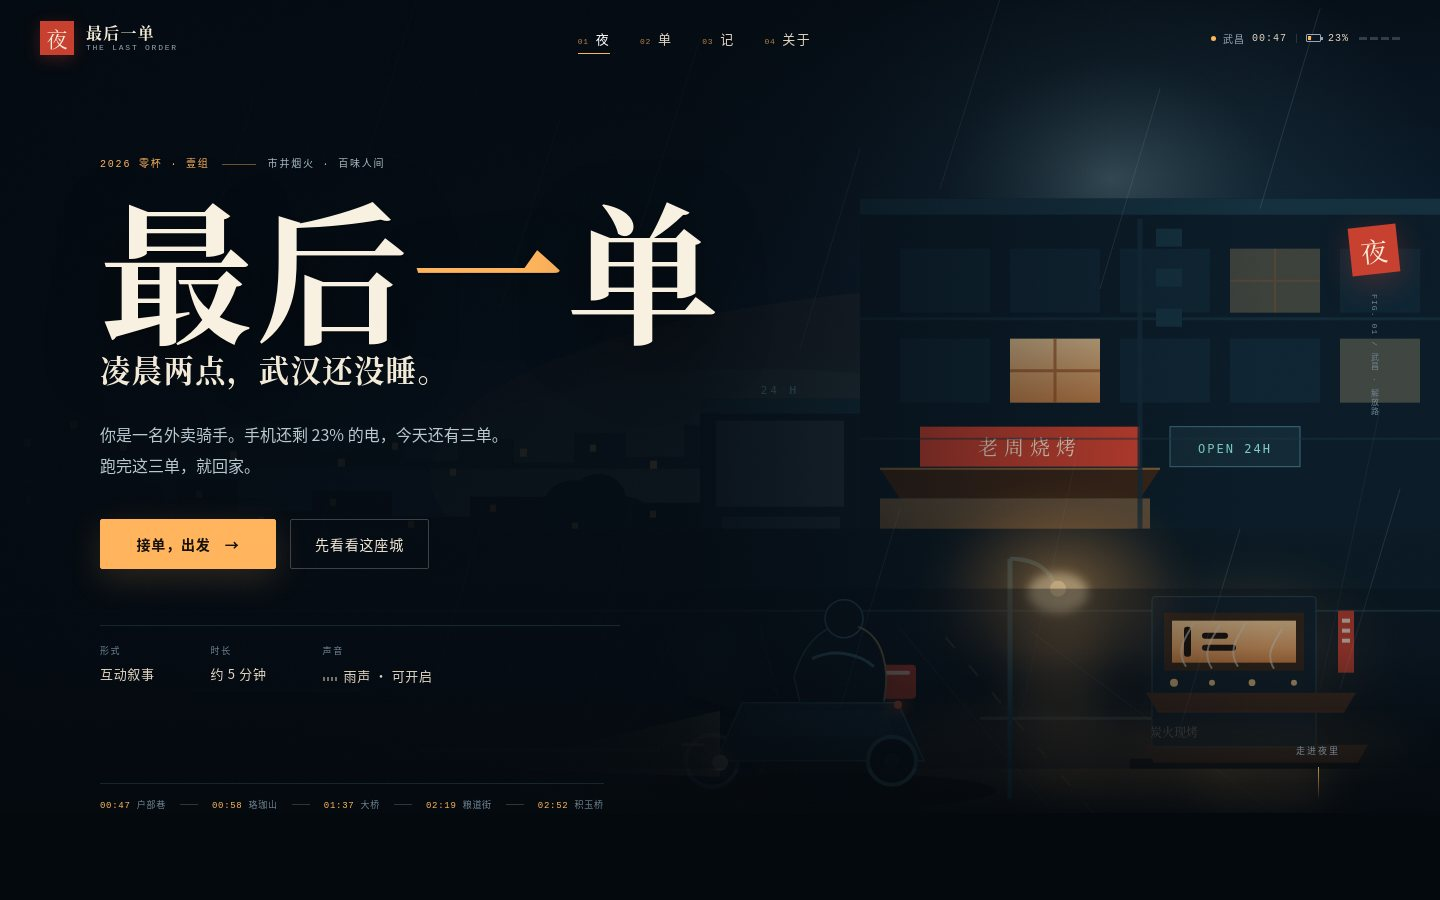
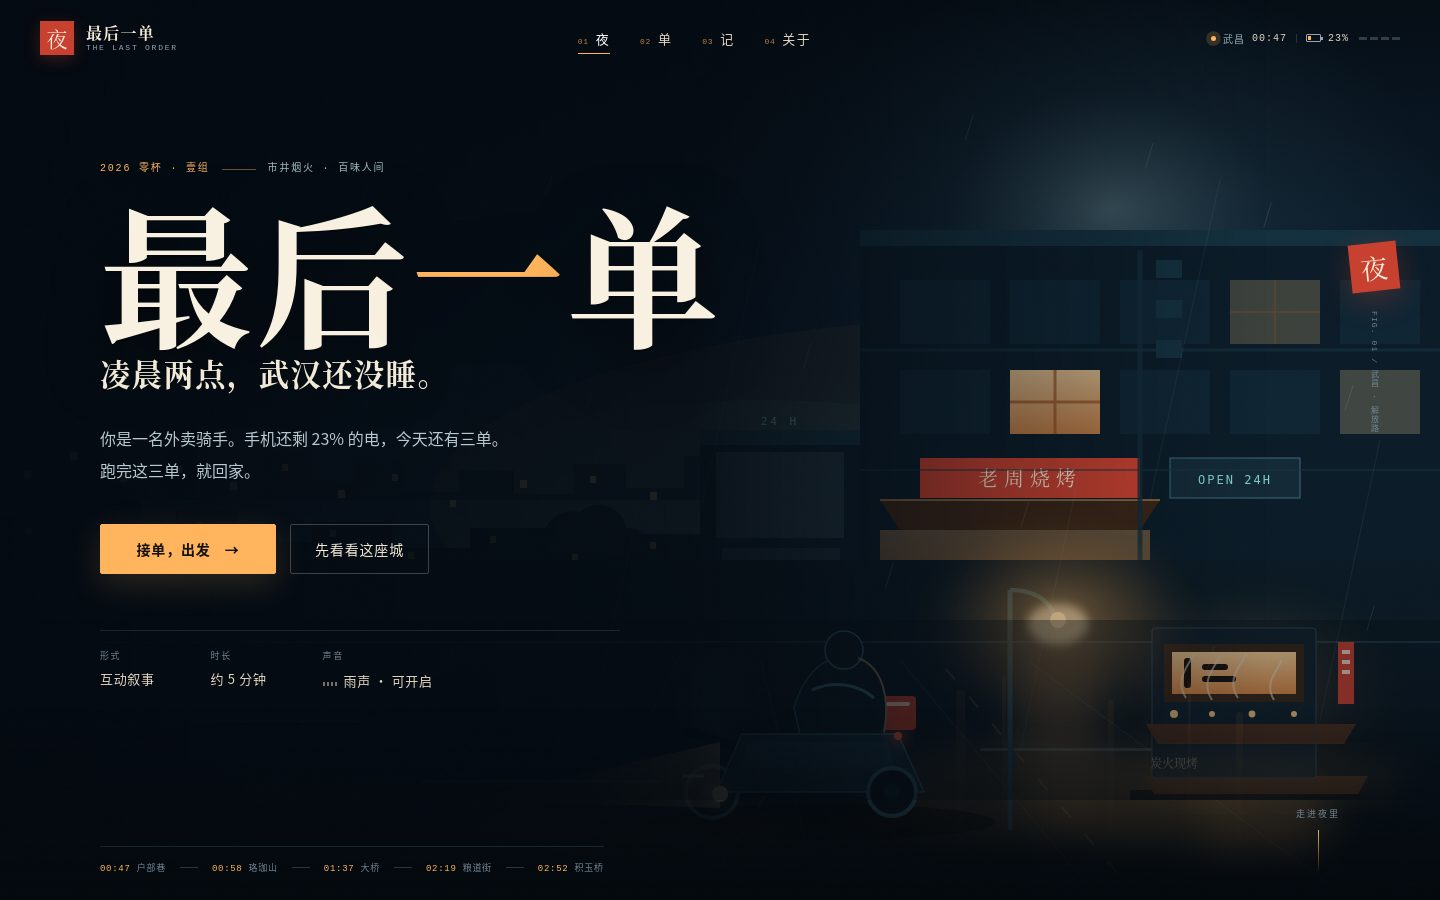
polish: 首屏雨线落下与湿街反光

diff --git a/index.html b/index.html
@@ -85,6 +85,11 @@
             <stop offset="0" stop-color="#ffd49a"/>
             <stop offset="1" stop-color="#e28c46"/>
           </linearGradient>
+          <linearGradient id="hWet" x1="0" y1="0" x2="0" y2="1">
+            <stop offset="0" stop-color="#ffbd72" stop-opacity=".5"/>
+            <stop offset=".42" stop-color="#ffb45c" stop-opacity=".16"/>
+            <stop offset="1" stop-color="#ffb45c" stop-opacity="0"/>
+          </linearGradient>
           <filter id="hBlur" x="-50%" y="-50%" width="200%" height="200%">
             <feGaussianBlur stdDeviation="18"/>
           </filter>
@@ -275,17 +280,31 @@
           <circle cx="86" cy="30" r="12" fill="#ff6b45" opacity=".25" filter="url(#hBlurSm)"/>
         </g>
 
-        <!-- 雨与雾 -->
-        <g stroke="#b7d9db" stroke-width="1" opacity=".13">
+        <!-- 雨与雾：两条速度不同的雨线，路径本身不动，只让描边沿路径落下 -->
+        <g class="hero-rain hero-rain--far" stroke="#b7d9db" stroke-width="1" opacity=".13">
           <path d="M120 40 L60 230"/><path d="M260 110 L196 310"/><path d="M420 20 L360 210"/>
           <path d="M560 150 L500 340"/><path d="M700 70 L640 260"/><path d="M860 180 L800 380"/>
           <path d="M1000 30 L940 220"/><path d="M1160 120 L1100 320"/><path d="M1320 40 L1260 240"/>
           <path d="M180 520 L120 710"/><path d="M480 560 L420 760"/><path d="M900 540 L840 740"/>
           <path d="M1240 560 L1180 760"/><path d="M1400 520 L1340 720"/>
+          <path d="M60 300 L0 490"/><path d="M380 360 L320 550"/><path d="M620 300 L560 490"/>
+          <path d="M1080 340 L1020 530"/><path d="M1380 300 L1320 490"/>
         </g>
-        <g stroke="#b7d9db" stroke-width="1" opacity=".06">
+        <g class="hero-rain hero-rain--near" stroke="#b7d9db" stroke-width="1" opacity=".07">
           <path d="M80 420 L20 700"/><path d="M340 480 L280 760"/><path d="M640 500 L580 780"/>
           <path d="M1080 470 L1020 750"/><path d="M1380 440 L1320 720"/>
+          <path d="M220 180 L150 500"/><path d="M760 240 L690 560"/><path d="M1220 180 L1150 500"/>
+        </g>
+        <!-- 湿街：招牌与路灯落在路面上的一层暖色反光 -->
+        <g class="hero-wet" aria-hidden="true">
+          <ellipse cx="1040" cy="844" rx="260" ry="30" fill="url(#hWet)" opacity=".32" filter="url(#hBlur)"/>
+          <g fill="url(#hWet)" opacity=".22">
+            <rect x="956" y="690" width="9" height="200" rx="4"/>
+            <rect x="1002" y="676" width="4" height="216" rx="2"/>
+            <rect x="1108" y="700" width="6" height="186" rx="3"/>
+            <rect x="1188" y="682" width="3" height="204" rx="1.5"/>
+            <rect x="1236" y="712" width="7" height="172" rx="3.5"/>
+          </g>
         </g>
         <rect x="0" y="620" width="1440" height="180" fill="#061018" opacity=".36"/>
         <rect width="1440" height="900" fill="url(#hScrim)"/>

diff --git a/assets/css/main.css b/assets/css/main.css
@@ -396,6 +396,30 @@ html.is-locked, html.is-locked body { overflow: hidden; }
   height: 100%;
   z-index: 0;
 }
+/* 首屏的雨是「落」出来的，不是一张静止的斜线纹理：
+   每条路径只走自己的描边，因此循环时不会整片跳动。 */
+.hero-rain path {
+  stroke-dasharray: 26 214;
+  animation: heroRain 1.65s linear infinite;
+}
+.hero-rain--near path {
+  stroke-dasharray: none;
+  animation: none;
+}
+.hero-rain path:nth-child(3n) { animation-delay: -.55s; }
+.hero-rain path:nth-child(4n) { animation-delay: -1.2s; }
+.hero-rain path:nth-child(5n) { animation-delay: -.9s; }
+.hero-wet {
+  animation: wetShimmer 8s ease-in-out infinite;
+}
+@keyframes heroRain {
+  from { stroke-dashoffset: 0; }
+  to { stroke-dashoffset: -240; }
+}
+@keyframes wetShimmer {
+  0%, 100% { opacity: .78; }
+  50% { opacity: 1; }
+}
 .hero::after {
   content: "";
   position: absolute;

diff --git a/STATE.md b/STATE.md
@@ -94,6 +94,7 @@
 - [x] 地图 01–04 触控热区放到 47px、焦点环改独立圆；纸票「分享」可点高 25px（第 53 轮）
 - [x] 第四单揭示：订单卡切「最后一单 / LAST ORDER」朱红余烬色；地图提示「手机又亮了」；回家路线与轨迹单独用朱红（第 54 轮）
 - [x] 地图提示从底边移到顶部 64px：1440×900 下地图底边在视口外，取餐 / 送达提示原本看不见（第 54 轮）
+- [x] 首屏雨线沿路径落下、湿街补招牌反光；雨只动描边，不整片位移，`prefers-reduced-motion` 下静止（第 55 轮）
 - [ ] 真实手机走查（真机触控、系统分享面板、环境声响度）
 - [x] `scripts/pack.sh` 实跑：完整版含 progress，匿名版无占位符/个人信息，两个 zip 可直接打开
 
@@ -159,6 +160,7 @@
 | 11-06 | 地图提示改到地图顶部 | 提示原本 `bottom:30`，1440×900 滚到送单区时地图底边约在 948，提示落在视口外；取餐 / 送达 / 到家三个节点全都看不见。改到 `top:64` 后落进视口，也不压顶栏 LIVE 行与手机跳过胶囊。 |
 | 11-06 | 第四单不再只是「加单」，给最后一单独立视觉与提示 | 前三单是配送，第四单是回家；如果卡片仍是「新订单 / NEW ORDER」，整晚的转折会被当成又一次普通接单。只改眉标、卡片暖色与最后一段路的朱红，不动订单数据与流程。 |
 | 11-06 | 用 Chrome for Testing 129 做提交前闸门 | 比赛指定 Chrome 129，本机只有 Chromium 131；下载固定版本 129.0.6668.100 后跑同一个 CDP 回归，避免「版本不同」成为提交风险。分享路径同时改为触屏优先系统面板、剪贴板失败弹出真实链接，不再误导用户复制地址栏。 |
+| 11-06 | 首屏雨改为「描边落下」而不是整层位移 | 首屏写着雨、声音也是雨声，但画面里的雨线是静止的；整层位移会在循环点跳帧。让每条路径只走自己的 `stroke-dashoffset`，循环无缝且几乎不耗性能，再加一层不动的细雨线保底氛围；湿街反光只放在右侧招牌下方，不压标题与按钮。 |
 
 ## 七、当前阶段 & 下一步
 
@@ -199,6 +201,8 @@
 第 53 轮做了一轮触控可达性校准：地图上 01–04 的透明热区半径从 18 放到 30（390 实测可点直径 47px），虚线焦点环改用独立的 `ts-focus` 圆（r=19.5），不再跟着热区一起放大；收工纸票页眉的「分享 ↗」用负外边距把可点高度撑到 25px 而不改变纸面行高。回归新增「地图热区 ≥34px」「分享可点高度 ≥22px」两条断言，`ONLY=mobile` 的 320 / 360 / 390 首屏、390 完整一夜全部通过。
 
 第 54 轮把「最后一单」从一次普通加单做成明确的叙事节拍：三单送完后，订单卡换成「最后一单 / LAST ORDER」与朱红余烬边框，地图同时提示「02:41 · 今日目标完成，手机又亮了」，夜班日志记下这行加单；回家的最后一段路从琥珀改成朱红 `route-home`，跑完后压暗的轨迹也保留这抹暖色。回归新增「眉标 / 卡片样式」「加单提示」「日志」「回家路线」四条断言。另发现地图提示贴在地图底边、1440×900 的视口外看不见，把提示移到地图顶部 64px，并加了视口范围断言。`ONLY=desktop` 在 Chrome 129 下全量通过。
+
+第 55 轮把首屏的雨真正下起来：此前画面里只有一组静止的斜线，与「雨声」和环境声的设定对不上。现在雨线沿各自路径落下（只动 `stroke-dashoffset`，循环无跳帧），另留一层不动细雨线保底；右侧「老周烧烤」招牌下方补五道暖色湿街反光，雨夜落地更实。标题、入口与信息行不动，`prefers-reduced-motion` 的全局规则会让雨自动静止。回归新增「雨线有动画 / 反光存在」一条断言，并重拍首屏截图。
 
 **下一步**：① 真实手机走查并记录（触控热区、系统分享面板、环境声响度、纸票四行的触控热区）；② 可选：第二夜换一组订单（累计账本已先给重复跑夜一个理由）；③ 路网存根可加取餐 / 送达图例或比例尺，但需先确认不把小票撑高；④ 地图点的键盘焦点环与触控热区（r=18）可在真机上复核；⑤ 小票区的「再看小票」可考虑加一枚纸票缩略图入口；⑥ 环境声可在真机上复核响度与音色，再决定是否加音量滑杆；⑦ 决定 `shichen/` 是继续留在线上，还是移出仓库单独归档；⑧ 地图内跳过胶囊可在真机复核触控热区与遮挡；⑨ 可考虑把「取餐完成 / 已送达」提示也做成地图内轻提示，减少对面板的依赖。
 

diff --git a/docs/design.md b/docs/design.md
@@ -37,7 +37,7 @@
 - **地图**：一张 1200×760 的夜间示意地图，长江、汉江、长江大桥、黄鹤楼、武大、归元寺、粮道街、积玉桥等为手绘 SVG；道路用低饱和青灰，路线用唯一的高饱和琥珀色。地图不是导航，是叙事舞台。
 - **纸**：只有小票是纸。顾客留言、收工回执、场景里的小票都落在纸色上，和夜里的屏幕形成冷暖、软硬、可带走 / 留在屏幕上的对照。关于区左栏用一句「他把这座城送了一遍，最后送回自己家。」收束全页，琥珀色竖线呼应纸票上的路网存根；首字下沉会劈开「我们」，已弃用。
 - **场景**：四个门口场景是「电影剧照」式的内联 SVG——一扇亮窗、一把伞、一只外卖袋、桥下的灯、楼道的门、厨房的锅。它们不追求写实，追求一眼能读出「这是哪一刻」。第 21 轮给第一段补上雨里同撑一把伞的两个人和接餐时拢进怀里的纸袋，让人物关系不再只靠叙述；第 22 轮补齐后三段：桥下烧烤袋的白汽与脚边水瓶、只开一条缝的楼道门与门口要带下楼的垃圾、妈妈手里的汤勺和桌上早摆好的第二副碗筷。
-- **动效**：`cubic-bezier(.22,.8,.24,1)`；地图运镜 720ms、路线按长度 1.4–3.4s、电动车沿路径移动、场景淡入、小票落下、收工印章。`prefers-reduced-motion` 下关闭全部动效与地图雨。
+- **动效**：`cubic-bezier(.22,.8,.24,1)`；地图运镜 720ms、路线按长度 1.4–3.4s、电动车沿路径移动、场景淡入、小票落下、收工印章。首屏的雨沿各自 SVG 路径落下（只动 `stroke-dashoffset`，循环无跳帧），另留一层静止细雨线与招牌下的湿街反光；`prefers-reduced-motion` 下关闭全部动效、首屏雨与地图雨。
 - **不用的东西**：跑马灯、满屏渐变、图库照片、贴纸胶带、预设样式库、外部图标库。
 
 ## 4. 信息架构

diff --git a/progress/2026-11-06.md b/progress/2026-11-06.md
@@ -193,3 +193,10 @@
 - 验证：`ONLY=desktop` 在 Chrome 129 下全量跑通，新增「最后一单眉标 / 卡片样式」「加单提示」「日志」「回家路线单独着色」四条断言；1440 实拍复核。
 - 遗留：第二夜仍是同一组订单；真机走查尚未完成。
 - 顺手修掉一个 1440 下的真实可见性缺口：地图提示原本贴在地图底边（bottom:30），而 1440×900 的地图底边落在视口外，「取餐完成 / 已送达 / 到家」都看不见；现在移到地图顶部 64px，并在加单断言里量了 0–900 的视口范围。
+
+# 2026-11-06 · 第 55 轮
+
+- 目标：让首屏的雨与「雨声」设定对齐，给夜色加一层会呼吸的湿街，而不是一块静止的斜线纹理。
+- 做了什么：雨线改为沿各自路径落下（只动 `stroke-dashoffset`，循环无跳帧），保留一层不动的细雨线保底；右侧「老周烧烤」招牌下方补五道暖色反光与一片路面光晕。标题、入口、信息行、路线条的位置均未动。
+- 验证：回归新增「雨线动画 / 湿街反光」断言，`ONLY=desktop` 跑通并重拍首屏截图；`prefers-reduced-motion` 沿用全局规则，雨自动静止。
+- 遗留：真机上的雨线密度与反光强度仍需复核；第二夜仍是同一组订单。

diff --git a/BACKLOG.md b/BACKLOG.md
@@ -56,6 +56,7 @@
 - [x] 桌面场景脚注改为「点选一句话」；地图 01–04 键盘焦点补琥珀虚线外环（第 51 轮）
 - [x] 收工纸票四单可点回看：点一单收起纸票、翻到对应小票并高亮；页脚提示（第 52 轮）
 - [x] 第四单揭示：LAST ORDER 眉标 / 朱红卡片、加单提示与日志、回家路线单独着色（第 54 轮）
+- [x] 首屏雨线沿路径落下 + 右侧湿街招牌反光；减少动画下静止（第 55 轮）
 
 ## P2 · 功能 20
 
@@ -106,6 +107,7 @@
 - [x] 地图 01–04 热区 47px / 独立焦点环、纸票分享热区 25px 断言（第 53 轮）
 - [x] 最后一单眉标 / 卡片 / 加单提示 / 回家路线四条断言（第 54 轮）
 - [x] 地图提示移入视口：1440×900 下取餐 / 送达 / 到家提示可见（第 54 轮）
+- [x] 首屏雨线动画与湿街反光断言（第 55 轮）
 - [ ] 真实手机走查（系统分享 / 环境声响度 / 纸票四行手感；热区已按 390 实测校准）
 - [x] 收工纸票路网存根与按钮首屏断言（第 30 轮）
 - [x] 981–1100px 窄桌面顶栏三组占位实拍复核（981 / 1000px 不重叠）
